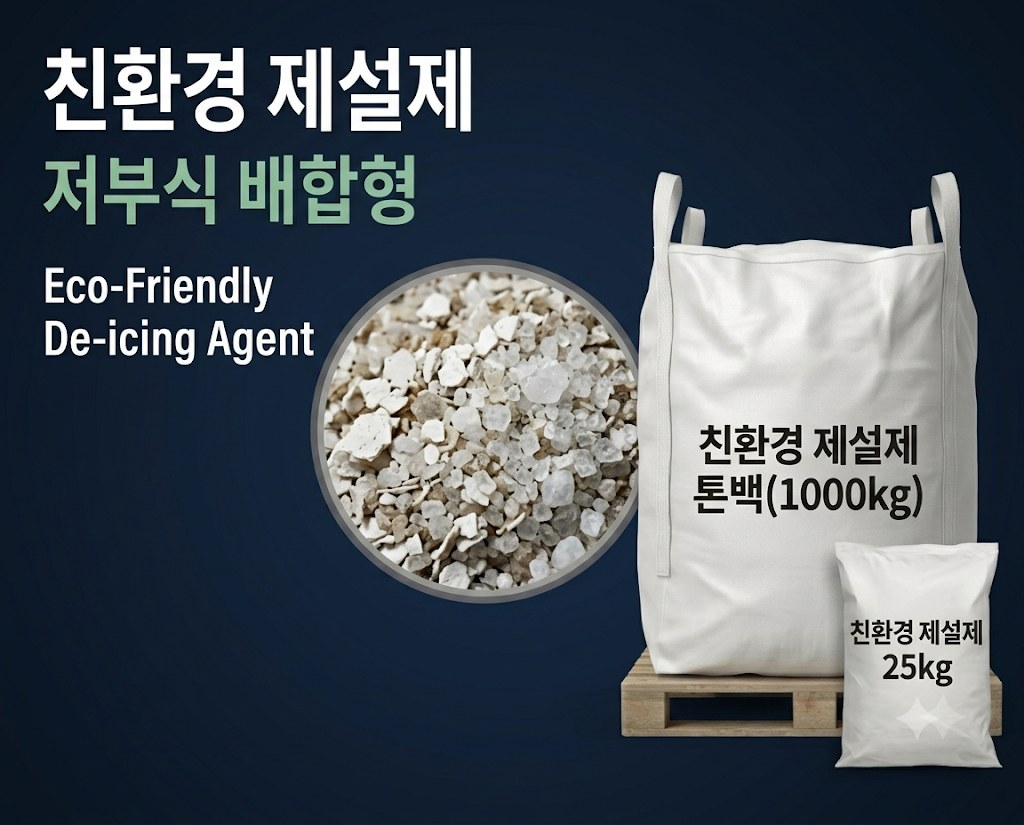
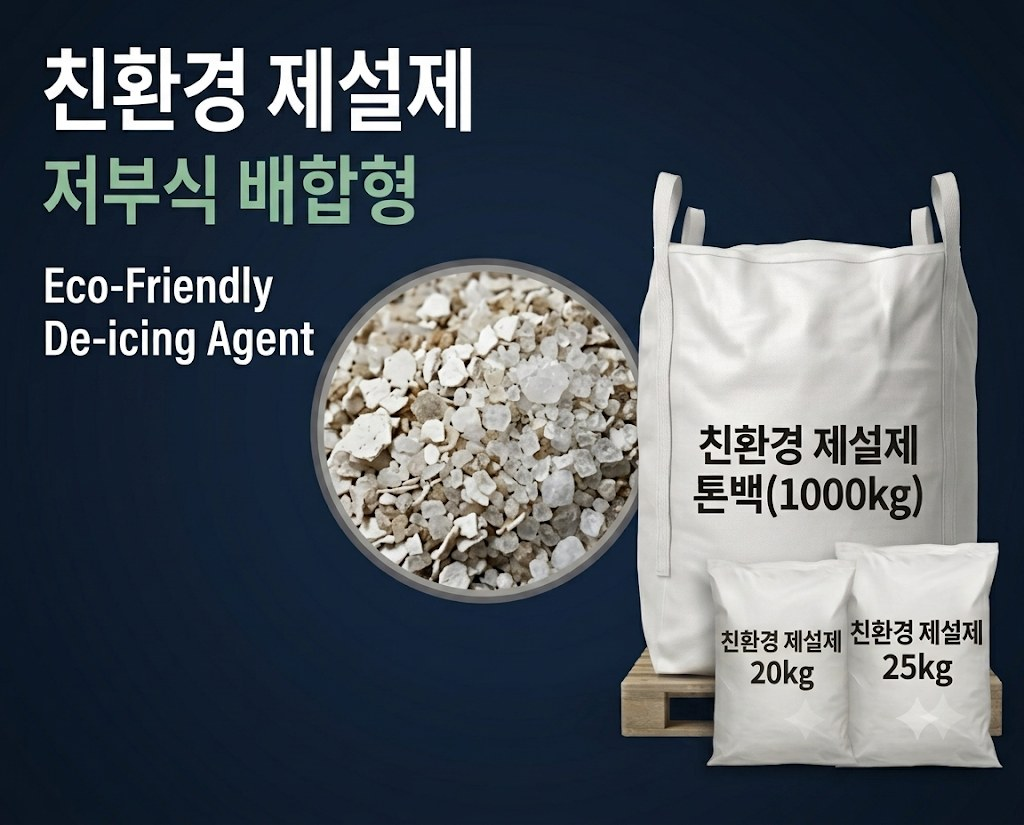
Add files via upload

Changed region(s): [[0.6562, 0.6667, 0.8438, 0.9394]]

diff --git a/index.html b/index.html
@@ -332,7 +332,7 @@ footer{background:var(--night);color:rgba(175,201,224,.78);padding:44px 0;font-s
           <span class="feat-ribbon">주력 품목</span>
           <h3>친환경 제설제</h3>
           <p class="type">Eco-Friendly De-icing Agent · 저부식 · 저염해</p>
-          <div class="tags"><span class="tag">톤백</span><span class="tag">25kg</span><span class="tag-eco">부식 저감</span><span class="tag-eco">염해 부담 완화</span></div>
+          <div class="tags"><span class="tag">톤백</span><span class="tag">25kg</span><span class="tag">20kg</span><span class="tag-eco">부식 저감</span><span class="tag-eco">염해 부담 완화</span></div>
           <dl>
             <div><dt>특징</dt><dd>일반 염화물계 제설제 대비 <b>시설물 부식과 가로수·토양 염해 부담을 낮춘</b> 제설제입니다. 정부·조달청이 <b>공공기관의 친환경 제설제 구매를 권고</b>하면서 수요가 확대되고 있습니다.</dd></div>
             <div><dt>용도</dt><dd><span class="nb">도심 도로·보도·교량·학교 주변</span> 등 <b>환경 민감 구간</b>과 <span class="nb">지자체·관공서</span> 관급 납품 전반.</dd></div>
@@ -439,7 +439,7 @@ footer{background:var(--night);color:rgba(175,201,224,.78);padding:44px 0;font-s
         <tbody>
           <tr>
             <td><div class="p-name">친환경 제설제</div><div class="p-sub">저부식 · 저염해</div></td>
-            <td>입상</td><td>톤백 / 25kg</td><td>적음</td><td><b style="color:#2E7A52">낮춤</b></td>
+            <td>입상</td><td>톤백 / 25kg / 20kg</td><td>적음</td><td><b style="color:#2E7A52">낮춤</b></td>
             <td><span class="pos eco">친환경 · 관급 선호</span></td><td>지자체 · 환경 민감 구간</td>
           </tr>
           <tr>
@@ -537,7 +537,7 @@ footer{background:var(--night);color:rgba(175,201,224,.78);padding:44px 0;font-s
       <div class="ct-left rv">
         <span class="sec-eyebrow">Contact</span>
         <h2>필요 물량과 조건을<br>알려주시면 <em>당일 안내</em>해 드립니다.</h2>
-        <p>필요 물량 · <span class="nb">규격(톤백 / 25kg)</span> · 원산지 조건을 알려주시면 현장에 맞춰 신속히 안내해 드립니다. <span class="nb">조달·관급 납품</span> 상담 환영합니다.</p>
+        <p>필요 물량 · <span class="nb">규격(톤백 / 25kg / 20kg)</span> · 원산지 조건을 알려주시면 현장에 맞춰 신속히 안내해 드립니다. <span class="nb">조달·관급 납품</span> 상담 환영합니다.</p>
         <a class="tel-big" href="tel:01087941977"><span class="dot"></span>010-8794-1977</a>
       </div>
       <div class="rv d1">
